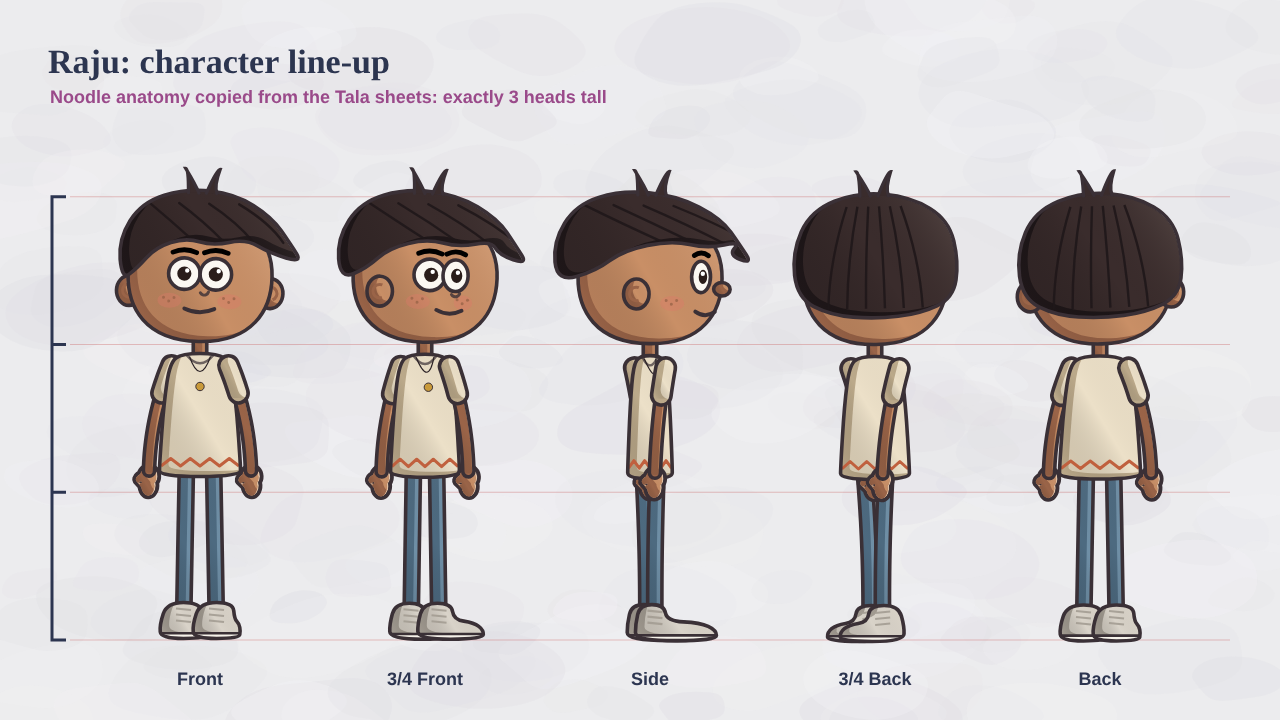
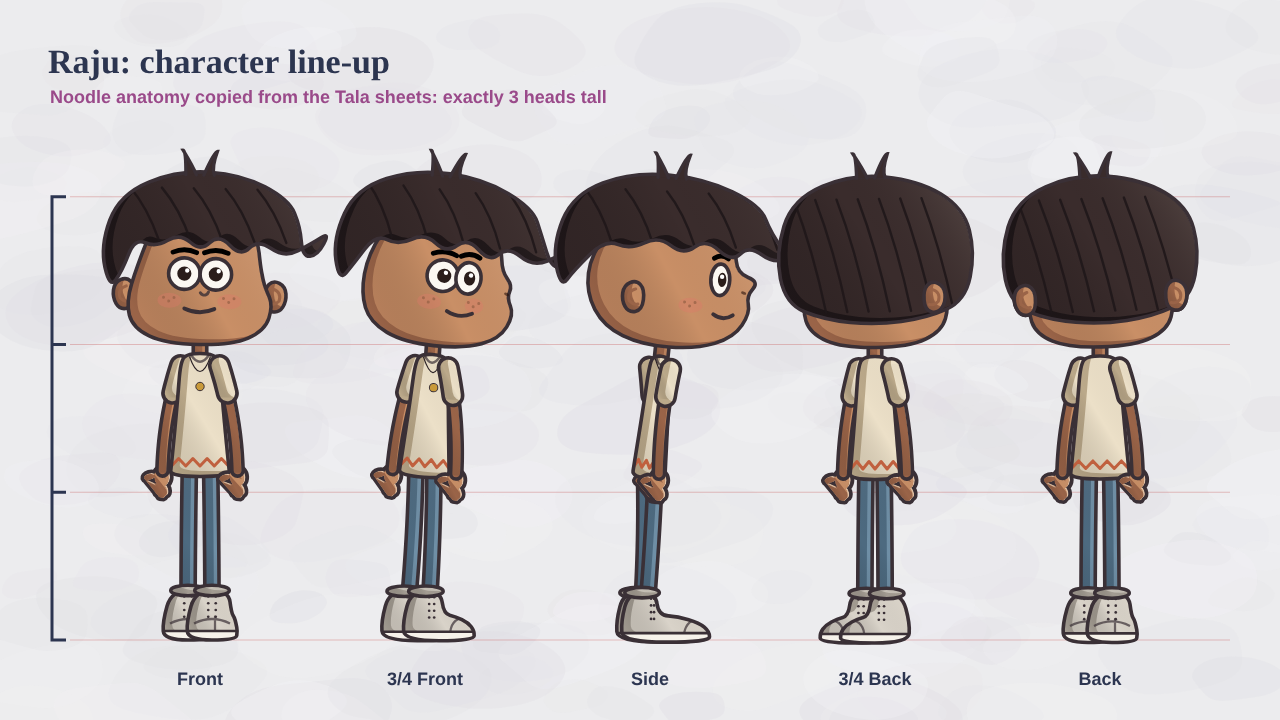
Village study: noodle Raju round 2 (pear head, jaw ears, bang volume, narrow torso, S-curve, open hands, high-tops)
Claude-Session: https://claude.ai/code/session_01CFreaP4b5SAhinaywDeooY

Changed region(s): [[0.0625, 0.2139, 0.9375, 0.9167]]

diff --git a/2d-style-study/village-painterly/03 Mockups/noodle.js b/2d-style-study/village-painterly/03 Mockups/noodle.js
@@ -24,20 +24,25 @@
   // yaw: 0 front, .45 three-quarter, 1 side. back: 0 none, 1 three-quarter back, 2 back.
   const head = (c, h, f, yaw, back) => {
     const k = RAJU, X = v => v * h;
-    const shape = new Path2D();
-    shape.moveTo(0, X(-.43));
-    shape.bezierCurveTo(X(.3), X(-.43), X(.48), X(-.28), X(.48), X(-.02));
-    shape.bezierCurveTo(X(.48), X(.2), X(.36), X(.42), 0, X(.42));
-    shape.bezierCurveTo(X(-.36), X(.42), X(-.48), X(.2), X(-.48), X(-.02));
-    shape.bezierCurveTo(X(-.48), X(-.28), X(-.3), X(-.43), 0, X(-.43));
-    shape.closePath(); shape.bb = [X(-.48), X(-.43), X(.48), X(.42)];
+    // pear / bean head: narrow temples, wide chubby lower cheeks. In 3/4 and side the forehead,
+    // upturned nose and cheek are one continuous outline.
+    const HF = [[0, -.46], [.28, -.42], [.38, -.26], [.4, -.1], [.42, .0], [.44, .06], [.49, .17], [.44, .34], [.22, .44], [-.22, .44], [-.44, .34], [-.49, .17], [-.42, -.08], [-.3, -.4]];
+    const H3 = [[.02, -.46], [.3, -.42], [.4, -.26], [.42, -.1], [.5, -.01], [.47, .07], [.53, .18], [.45, .35], [.22, .44], [-.18, .44], [-.42, .33], [-.5, .14], [-.48, -.12], [-.33, -.41]];
+    const HS = [[.06, -.46], [.34, -.4], [.43, -.24], [.45, -.08], [.6, -.03], [.52, .07], [.55, .18], [.45, .35], [.2, .44], [-.16, .43], [-.42, .32], [-.55, .1], [-.53, -.16], [-.34, -.42]];
+    const hp = (yaw <= .45 ? HF.map((q, i) => [S.lerp(q[0], H3[i][0], yaw / .45), S.lerp(q[1], H3[i][1], yaw / .45)]) : H3.map((q, i) => [S.lerp(q[0], HS[i][0], (yaw - .45) / .55), S.lerp(q[1], HS[i][1], (yaw - .45) / .55)]));
+    const shape = P(h, back ? HF : hp);
     const fx = X(.27) * yaw;
-    // ears sit low, level with the cheeks
-    const ears = [];
-    if (back === 2) ears.push(X(-.47), X(.47)); else if (back === 1) ears.push(X(.3)); else { ears.push(X(-.47 + .38 * yaw)); if (yaw < .25) ears.push(X(.47)); }
-    const ear = ex => { const p = S.ell(ex, X(.09), X(.085), X(.1)); cel(c, p, k.skin, h, { swk: .4, over: c2 => { c2.strokeStyle = S.rgba(k.skin[1], 1); c2.lineWidth = X(.02); c2.beginPath(); c2.arc(ex, X(.09), X(.045), -1.2, 1.2, ex > 0 ? false : true); c2.stroke(); } }); };
-    const earsBehind = back === 0 && yaw < .25;
-    if (earsBehind) ears.forEach(ear);
+    // ears sit low, level with the cheeks; in 3/4 and side they hang off the back edge of the jaw
+    const earAt = [];
+    if (back === 2) earAt.push([-.47, 1, true], [.47, -1, true]); else if (back === 1) earAt.push([.36, -1, false]);
+    else if (yaw < .25) earAt.push([-.47, 1, true], [.47, -1, true]);
+    else earAt.push([S.lerp(-.44, -.2, (yaw - .25) / .75), 1, yaw < .7]);
+    const ear = ([ex, dir]) => {
+      const x0 = X(ex), y0 = X(.12), o = -dir; // o: the side that sticks out
+      const p = S.poly([[x0 + o * X(.02), y0 - X(.12)], [x0 + o * X(.1), y0 - X(.08)], [x0 + o * X(.11), y0 + X(.02)], [x0 + o * X(.06), y0 + X(.1)], [x0 - o * X(.03), y0 + X(.08)], [x0 - o * X(.04), y0 - X(.06)]]);
+      cel(c, p, k.skin, h, { swk: .4, over: c2 => { c2.strokeStyle = S.rgba(k.skin[1], 1); c2.lineWidth = X(.02); c2.lineCap = 'round'; c2.beginPath(); c2.moveTo(x0 + o * X(.02), y0 - X(.06)); c2.quadraticCurveTo(x0 + o * X(.08), y0 - X(.04), x0 + o * X(.06), y0 + X(.02)); c2.quadraticCurveTo(x0 + o * X(.03), y0 + X(.05), x0, y0 + X(.04)); c2.stroke(); } });
+    };
+    earAt.filter(e => e[2]).forEach(ear);
     cel(c, shape, k.skin, h, { over: c2 => {
       if (back) return;
       c2.fillStyle = S.rgba(k.blush, .35);
@@ -46,10 +51,9 @@
       c2.fillStyle = S.rgba(k.skin[1], .8);
       cx.forEach((x, i) => { if (i === 1 && yaw > .85) return; for (let j = 0; j < 3; j++) { c2.beginPath(); c2.arc(x - X(.04) + j * X(.035), X(.13 + (j % 2) * .025), X(.01), 0, TAU); c2.fill(); } });
     } });
-    if (!earsBehind) ears.forEach(ear);
+    earAt.filter(e => !e[2]).forEach(ear);
     if (!back) {
       // side-view nose bump
-      if (yaw > .85) cel(c, S.ell(X(.48), X(.05), X(.055), X(.045)), k.skin, h, { swk: .3 });
       // big round eyes that touch
       const er = X(.105), ey = X(-.03), look = f.look || [0, 0];
       const eyes = yaw > .85 ? [[X(.34), .6]] : [[fx - er * (1 - yaw * .3), 1], [fx + er * (1 - yaw * .5), 1 - yaw * .45]];
@@ -76,7 +80,7 @@
       }
       c.restore();
       // tiny nose just below the eye line
-      if (yaw <= .85) { c.save(); c.strokeStyle = S.rgba(INK, .8); c.lineWidth = X(.02); c.lineCap = 'round'; const nx = fx + X(.03) + yaw * X(.12); c.beginPath(); c.arc(nx, X(.08), X(.03), .3, 2.6); c.stroke(); c.restore(); }
+      if (yaw <= .3) { c.save(); c.strokeStyle = S.rgba(INK, .8); c.lineWidth = X(.02); c.lineCap = 'round'; const nx = fx + X(.03); c.beginPath(); c.arc(nx, X(.08), X(.03), .3, 2.6); c.stroke(); c.restore(); } else { c.save(); c.fillStyle = S.rgba('#2a120c', .6); c.beginPath(); c.ellipse(X(S.lerp(.44, .5, yaw)), X(.05), X(.018), X(.01), .3, 0, TAU); c.fill(); c.restore(); }
       // wide mouth
       const mx = fx + yaw * X(.1), my = X(.22), mw = X(.2) * (1 - yaw * .35), sm = f.smile ?? .4, op = f.open || 0;
       c.save(); c.lineCap = 'round'; c.lineJoin = 'round';
@@ -87,45 +91,59 @@
       } else { c.strokeStyle = INK; c.lineWidth = X(.026); c.beginPath(); c.moveTo(mx - mw / 2, my - sm * X(.04)); c.quadraticCurveTo(mx, my + sm * X(.06), mx + mw / 2, my - sm * X(.04)); c.stroke(); }
       c.restore();
     }
-    // hair: big swept mop with an upward flip at the front and two tufts on top
+    // hair: volume well past the skull; a thick bang sweeps across the forehead and hooks up at the tip,
+    // with V-shaped partings over the eyes
+    const strands = (c2, n, x0, x1, y0, y1) => { c2.strokeStyle = S.rgba(k.hair[1], .9); c2.lineWidth = X(.016); c2.lineCap = 'round'; for (let i = 0; i < n; i++) { const xa = X(S.lerp(x0, x1, i / (n - 1))); c2.beginPath(); c2.moveTo(xa - X(.08), X(y0)); c2.quadraticCurveTo(xa + X(.04), X((y0 + y1) / 2 - .04), xa + X(.12), X(y1)); c2.stroke(); } };
     if (back) {
-      cel(c, P(h, [[-.52, .1], [-.55, -.2], [-.42, -.48], [-.1, -.6], [.25, -.56], [.5, -.4], [.56, -.12], [.52, .12], [.3, .22], [0, .25], [-.3, .22]]), k.hair, h, { over: c2 => { c2.strokeStyle = S.rgba(k.hair[1], .9); c2.lineWidth = X(.016); for (let i = 0; i < 6; i++) { const x0 = X(-.3 + i * .12); c2.beginPath(); c2.moveTo(x0 * .6, X(-.5)); c2.quadraticCurveTo(x0, X(-.15), x0 * 1.05, X(.18)); c2.stroke(); } } });
+      cel(c, P(h, [[-.6, .14], [-.66, -.2], [-.54, -.56], [-.14, -.72], [.3, -.67], [.6, -.48], [.67, -.18], [.6, .14], [.34, .25], [0, .29], [-.34, .25]]), k.hair, h, { over: c2 => strands(c2, 7, -.45, .4, -.55, .2) });
     } else {
-      const sh = yaw * .1, hl = .3 * yaw;
-      const pts = [[-.52 - sh, .02], [-.55 - sh, -.25], [-.4 - sh, -.5], [-.1 - sh, -.6], [.22 - sh * .5, -.57], [.47, -.42], [.6, -.24], [.68, -.12],
-        [.46 + hl * .2, -.18], [.3 + hl, -.27], [.08 + hl, -.22], [-.1 + hl * .8, -.27], [-.3 + hl * .4, -.2], [-.42 + hl * .2, -.06]];
-      cel(c, P(h, pts), k.hair, h, { over: c2 => { c2.strokeStyle = S.rgba(k.hair[1], .9); c2.lineWidth = X(.016); c2.lineCap = 'round'; for (let i = 0; i < 4; i++) { c2.beginPath(); c2.moveTo(X(-.35 + i * .2 - sh), X(-.5)); c2.quadraticCurveTo(X(-.2 + i * .22), X(-.38), X(-.05 + i * .2 + hl * .5), X(-.25)); c2.stroke(); } } });
+      const sh = yaw * .12, bf = yaw * .14;
+      const pts = [[-.6 - sh, .08], [-.67 - sh, -.2], [-.55 - sh, -.55], [-.16 - sh, -.72], [.26 - sh * .5, -.7], [.58, -.54], [.66, -.36],
+        [.68 + bf, -.16], [.78 + bf, -.17], [.86 + bf, -.33], [.74 + bf, -.25], [.56 + bf, -.15],
+        [.38 + bf, -.27], [.27 + bf, -.15], [.12 + bf * .8, -.3], [.0 + bf * .6, -.18], [-.14 + bf * .4, -.3], [-.3 + bf * .2, -.2], [-.44, -.26], [-.52 - sh, -.04]];
+      cel(c, P(h, pts), k.hair, h, { over: c2 => strands(c2, 5, -.4 - sh, .45 + bf, -.6, -.25) });
     }
+    if (back) earAt.forEach(ear);
     // tufts
     c.save(); c.strokeStyle = INK; c.fillStyle = k.hair[0]; c.lineWidth = X(.022); c.lineCap = 'round';
-    for (const [x0, a] of [[-.06, -1.9], [.06, -1.2]]) { const t = new Path2D(); t.moveTo(X(x0 - .03), X(-.57)); t.quadraticCurveTo(X(x0) + Math.cos(a) * X(.1), X(-.62) + Math.sin(a) * X(.12), X(x0) + Math.cos(a) * X(.16), X(-.6) + Math.sin(a) * X(.14)); t.quadraticCurveTo(X(x0 + .02), X(-.62), X(x0 + .04), X(-.57)); c.fill(t); c.stroke(t); }
+    for (const [x0, a] of [[-.08, -1.9], [.04, -1.2]]) { const t = new Path2D(); t.moveTo(X(x0 - .03), X(-.69)); t.quadraticCurveTo(X(x0) + Math.cos(a) * X(.1), X(-.74) + Math.sin(a) * X(.12), X(x0) + Math.cos(a) * X(.16), X(-.72) + Math.sin(a) * X(.14)); t.quadraticCurveTo(X(x0 + .02), X(-.74), X(x0 + .04), X(-.69)); c.fill(t); c.stroke(t); }
     c.restore();
   };
 
   // ---------- shoe: chunky flat-soled high-top ----------
-  const SIDE = [[-.1, -.17], [.06, -.17], [.08, -.06], [.3, -.05], [.41, .0], [.41, .07], [-.13, .07], [-.13, -.04]];
-  const FRONT = [[-.11, -.17], [.11, -.17], [.12, -.06], [.15, -.03], [.16, .02], [.15, .07], [-.15, .07], [-.16, -.02]];
+  const SIDE = [[-.11, -.25], [.07, -.25], [.09, -.1], [.22, -.09], [.36, -.05], [.43, .01], [.43, .08], [-.15, .08], [-.16, -.06]];
+  const FRONT = [[-.11, -.25], [.11, -.25], [.13, -.1], [.15, -.07], [.16, -.03], [.17, .02], [.16, .08], [-.16, .08], [-.17, -.04]];
   const shoe = (c, h, x, y, d, f, rot) => {
-    const pts = SIDE.map((p, i) => [S.lerp(FRONT[i][0], p[0], f) * d * h, S.lerp(FRONT[i][1], p[1], f) * h]);
+    const L = (a, b) => [S.lerp(FRONT[a][0], SIDE[a][0], f) * d * h, S.lerp(FRONT[a][1], SIDE[a][1], f) * h];
+    const pts = SIDE.map((_, i) => L(i));
     c.save(); c.translate(x, y); c.rotate(rot * D);
     cel(c, S.poly(pts), RAJU.shoe, h, { swk: .5, over: c2 => {
-      c2.fillStyle = RAJU.sole; c2.fillRect(-h, h * .035, 2 * h, h);
-      c2.strokeStyle = INK; c2.lineWidth = h * .018; c2.beginPath(); c2.moveTo(-h, h * .035); c2.lineTo(h, h * .035); c2.stroke();
-      c2.strokeStyle = S.rgba(RAJU.shoe[1], .9); c2.lineWidth = h * .014; for (let i = 0; i < 3; i++) { c2.beginPath(); c2.moveTo(-.05 * h * d, (-.13 + i * .04) * h); c2.lineTo(.05 * h * d, (-.12 + i * .04) * h); c2.stroke(); }
+      // white sole border
+      c2.fillStyle = RAJU.sole; c2.fillRect(-h, h * .02, 2 * h, h);
+      c2.strokeStyle = INK; c2.lineWidth = h * .018; c2.beginPath(); c2.moveTo(-h, h * .02); c2.lineTo(h, h * .02); c2.stroke();
+      // raised toe box
+      c2.strokeStyle = S.rgba(INK, .7); c2.lineWidth = h * .015; c2.beginPath(); const tx = S.lerp(.02, .26, f) * d * h; c2.moveTo(tx, h * .02); c2.quadraticCurveTo(tx + S.lerp(0, .02, f) * d * h, -.08 * h, tx + S.lerp(.13, .12, f) * d * h * (f > .2 ? 1 : 0) + (f > .2 ? 0 : 0), -.075 * h); if (f <= .2) { c2.moveTo(-.12 * h, -.03 * h); c2.quadraticCurveTo(0, -.09 * h, .12 * h, -.03 * h); } c2.stroke();
+      // eyelets
+      c2.fillStyle = INK; for (let i = 0; i < 4; i++) { const ex = S.lerp(0, .05, f) * d * h, ey = (-.21 + i * .045) * h; c2.beginPath(); c2.arc(ex - .025 * h * (1 - f * .6), ey, h * .009, 0, TAU); c2.fill(); c2.beginPath(); c2.arc(ex + .025 * h * (1 - f * .6), ey, h * .009, 0, TAU); c2.fill(); }
     } });
+    // ankle collar
+    cel(c, S.ell(S.lerp(0, -.02, f) * d * h, -.25 * h, .115 * h, .035 * h), [S.mix(RAJU.shoe[0], RAJU.shoe[1], .35), RAJU.shoe[1]], h, { swk: .2 });
     c.restore();
   };
   // ---------- hand: small mitten with a thumb ----------
   const hand = (c, h, p, a, open) => {
-    const dx = Math.cos(a), dy = Math.sin(a), nx = -dy, ny = dx, r = h * .065;
+    const dx = Math.cos(a), dy = Math.sin(a), nx = -dy, ny = dx;
     const q = (s, t) => [p[0] + dx * s * h + nx * t * h, p[1] + dy * s * h + ny * t * h];
-    const palm = q(.04, 0), fing = q(.1, 0), th = q(.05, .055 + (open || 0) * .02);
-    lumpCel(c, [[palm[0], palm[1], r, r * .9, a], [fing[0], fing[1], r * 1.05, r * .75, a], [th[0], th[1], r * .55, r * .35, a + .9]], RAJU.skin, h);
+    const palm = q(.045, 0), L = [[palm[0], palm[1], h * .062, h * .052, a]];
+    [-.42, -.14, .14, .4].forEach((fa, i) => { const ang = a + fa * .8, len = [.07, .085, .082, .068][i]; const b = [palm[0] + Math.cos(a + fa * .5) * h * .045, palm[1] + Math.sin(a + fa * .5) * h * .045]; L.push([b[0] + Math.cos(ang) * h * len * .55, b[1] + Math.sin(ang) * h * len * .55, h * len * .55, h * .02, ang]); });
+    const th = q(.035, .06), ta = a + 1.25;
+    L.push([th[0] + Math.cos(ta) * h * .025, th[1] + Math.sin(ta) * h * .025, h * .04, h * .021, ta]);
+    lumpCel(c, L, RAJU.skin, h);
   };
 
   // ---------- full body ----------
   // pose (all in head units h, y down): legs are in the hip frame, arms in the tilted torso frame.
-  const STAND = { lift: 0, tilt: 0, htilt: 0, legL: [[-.1, .55], [-.11, 1.11]], legR: [[.1, .55], [.11, 1.11]], armL: [[-.33, -.3], [-.34, .06]], armR: [[.33, -.3], [.34, .06]], footL: 0, footR: 0 };
+  const STAND = { lift: 0, tilt: 0, htilt: 0, legL: [[-.08, .55], [-.08, 1.11]], legR: [[.08, .55], [.08, 1.11]], armL: [[-.24, -.3], [-.25, .06]], armR: [[.24, -.3], [.25, .06]], footL: 0, footR: 0 };
   S.noodle = (c, x, ground, h, pose, f, view) => {
     const p = Object.assign({}, STAND, pose), v = Object.assign({ yaw: .3, back: 0, ws: .9, d: 1, sf: .5 }, view);
     const ws = v.ws, k = RAJU;
@@ -133,14 +151,14 @@
     const H = h;
     // legs: thin parallel noodles, no knees, into big shoes
     const leg = (L, sx, foot) => {
-      const r = [hip[0] + sx * .09 * ws * H, hip[1]], cc = [hip[0] + L[0][0] * ws * H, hip[1] + L[0][1] * H], e = [hip[0] + L[1][0] * ws * H, hip[1] + L[1][1] * H];
+      const r = [hip[0] + sx * .07 * ws * H, hip[1]], cc = [hip[0] + L[0][0] * ws * H, hip[1] + L[0][1] * H], e = [hip[0] + L[1][0] * ws * H, hip[1] + L[1][1] * H];
       const pts = quad(r, cc, e);
       cel(c, S.tube(pts, H * .095), k.pants, H, { swk: .45 });
       shoe(c, H, e[0], e[1], v.d, v.sf, foot);
     };
     leg(p.legL, -1, p.footL); leg(p.legR, 1, p.footR);
     c.save(); c.translate(hip[0], hip[1]); c.rotate(p.tilt * D);
-    const sh = s => [s * .19 * ws * H, -.64 * H];
+    const sh = s => [s * .13 * ws * H, -.64 * H];
     const arm = (A, s) => {
       const r = sh(s), cc = [A[0][0] * ws * H, A[0][1] * H], e = [A[1][0] * ws * H, A[1][1] * H];
       const pts = quad(r, cc, e), last = pts[pts.length - 2], a = Math.atan2(e[1] - last[1], e[0] - last[0]);
@@ -153,12 +171,12 @@
     cel(c, S.tube([[0, -.66 * H], [0, -.82 * H]], H * .09), [S.mix(k.skin[0], k.skin[1], .3), k.skin[1]], H, { swk: .3 });
     // torso: narrow loose t-shirt, shoulders narrower than the head, zig-zag trim at the hem
     const tw = ws;
-    const shirt = P(H, [[-.12 * tw, -.72], [.12 * tw, -.72], [.2 * tw, -.66], [.24 * tw, -.4], [.27 * tw, .02], [.27 * tw, .1], [-.27 * tw, .1], [-.27 * tw, .02], [-.24 * tw, -.4], [-.2 * tw, -.66]]);
+    const shirt = P(H, [[-.08 * tw, -.72], [.08 * tw, -.72], [.13 * tw, -.67], [.15 * tw, -.4], [.19 * tw, .02], [.2 * tw, .1], [-.2 * tw, .1], [-.19 * tw, .02], [-.15 * tw, -.4], [-.13 * tw, -.67]]);
     cel(c, shirt, k.shirt, H, { over: c2 => {
       c2.strokeStyle = k.trim; c2.lineWidth = H * .02; c2.lineJoin = 'round'; c2.beginPath();
-      for (let i = 0; i <= 8; i++) { const xx = (-.26 + i * .065) * tw * H, yy = (i % 2 ? -.02 : .03) * H; i ? c2.lineTo(xx, yy) : c2.moveTo(xx, yy); } c2.stroke();
+      for (let i = 0; i <= 8; i++) { const xx = (-.19 + i * .0475) * tw * H, yy = (i % 2 ? -.02 : .03) * H; i ? c2.lineTo(xx, yy) : c2.moveTo(xx, yy); } c2.stroke();
       if (!v.back) {
-        c2.strokeStyle = S.rgba(INK, .7); c2.lineWidth = H * .016; c2.beginPath(); c2.moveTo(-.09 * tw * H, -.71 * H); c2.quadraticCurveTo(0, -.6 * H, .09 * tw * H, -.71 * H); c2.stroke();
+        c2.strokeStyle = S.rgba(INK, .7); c2.lineWidth = H * .016; c2.beginPath(); c2.moveTo(-.06 * tw * H, -.71 * H); c2.quadraticCurveTo(0, -.62 * H, .06 * tw * H, -.71 * H); c2.stroke();
         // black thread with a small pendant
         c2.strokeStyle = '#2b2226'; c2.lineWidth = H * .008; c2.beginPath(); c2.moveTo(-.07 * tw * H, -.7 * H); c2.quadraticCurveTo(v.yaw * .05 * H, -.5 * H, .07 * tw * H, -.7 * H); c2.stroke();
         c2.fillStyle = '#c99a3a'; c2.strokeStyle = INK; c2.lineWidth = 1; c2.beginPath(); c2.arc(v.yaw * .05 * H, -.5 * H, H * .028, 0, TAU); c2.fill(); c2.stroke();
@@ -190,7 +208,7 @@
       views.forEach(([n, v], i) => {
         const x = 200 + i * 225, b = Math.sin(t * 1.6 + i) * .01;
         dust(c, x, G + 4, 90);
-        const sideArm = v.yaw > .9 ? { armL: [[-.05, -.3], [-.02, .06]], armR: [[.08, -.3], [.06, .06]], legL: [[-.03, .55], [-.04, 1.11]], legR: [[.05, .55], [.06, 1.11]] } : {};
+        const sideArm = v.back ? {} : v.yaw > .9 ? { tilt: 6, htilt: -3, armL: [[.0, -.3], [.06, .06]], armR: [[.06, -.3], [.12, .06]], legL: [[-.04, .55], [-.12, 1.11]], legR: [[.03, .55], [-.06, 1.11]] } : v.yaw > .3 ? { tilt: 4, legL: [[-.08, .55], [-.15, 1.11]], legR: [[.07, .55], [.02, 1.11]] } : {};
         S.noodle(c, x, G, h, Object.assign({ lift: b, htilt: Math.sin(t * .7 + i) * 2 }, sideArm), { blink: S.blinkAt(t, i), smile: .45 }, v);
         S.label(c, n, x, G + 40, 18, '#2c3550');
       });

diff --git a/2d-style-study/village-painterly/03 Mockups/character-sheet.html b/2d-style-study/village-painterly/03 Mockups/character-sheet.html
@@ -71,6 +71,7 @@ footer { margin-top: 60px; color: var(--muted); font-size: 14px; }
   <p class="lede">Five characters drawn as a full turnaround (front, 3/4 right, 3/4 left, back), with body anatomy taken from the two turnaround sheets you sent. Nothing here touches the live 2D videos.</p>
   <h2>New: noodle anatomy (copied from Tala)</h2>
   <p>Raju rebuilt to your Tala breakdown: exactly 3 heads tall (head, then neck and torso, then legs and shoes, each one third). Wide bottom-heavy head, big round eyes that touch, ears low at the cheeks, a very thin neck, a narrow loose t-shirt with zig-zag trim, thin noodle arms and legs with no joints at all, and chunky high-top shoes for weight.</p>
+  <p class="muted">Round 2 fixes from your feedback: pear-shaped head with chubby lower cheeks that runs into an upturned nose in 3/4 and side; ears hang off the back of the jaw; hair has real volume with a thick bang that hooks up at the tip and V partings over the eyes; torso 35% narrower; a slight S-curve in 3/4 and side; open four-fingered hands; high-tops with ankle collar, toe box, white sole and eyelets.</p>
   <figure>
     <div class="screen"><canvas id="cv-noodle-lineup" width="1280" height="720" aria-label="Raju at three heads tall in five views: front, three-quarter front, side, three-quarter back and back"></canvas><button type="button">Pause</button></div>
     <figcaption><b>Line-up.</b> The bracket on the left splits him into three equal head units, like the Tala sheet.</figcaption>
